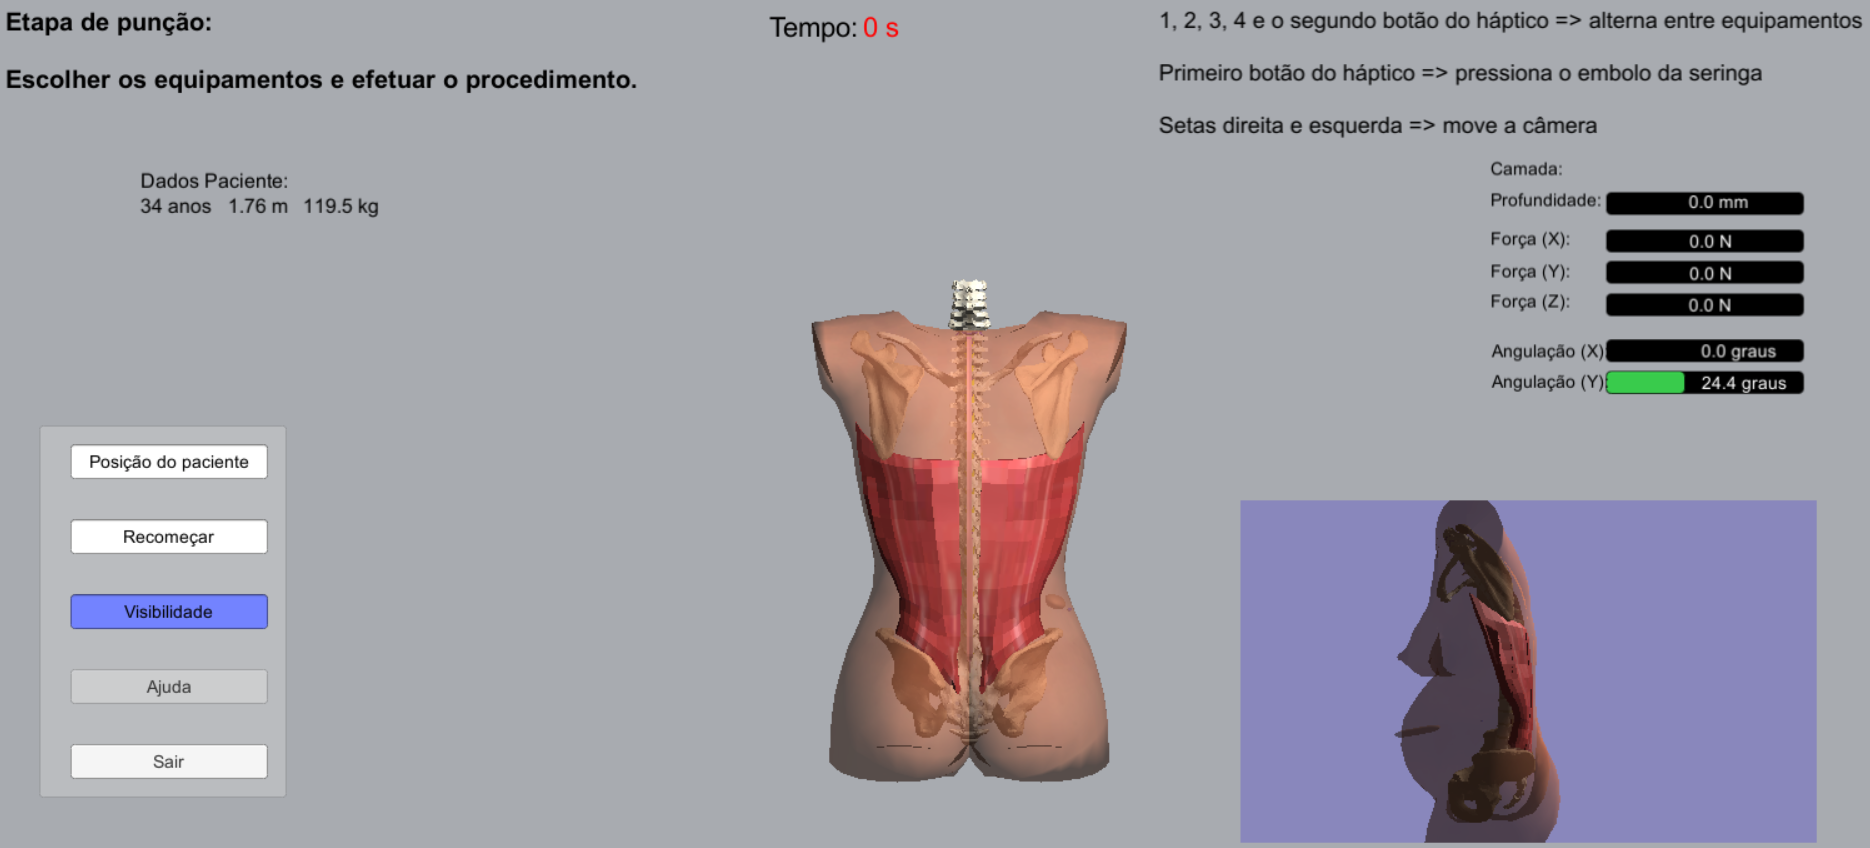
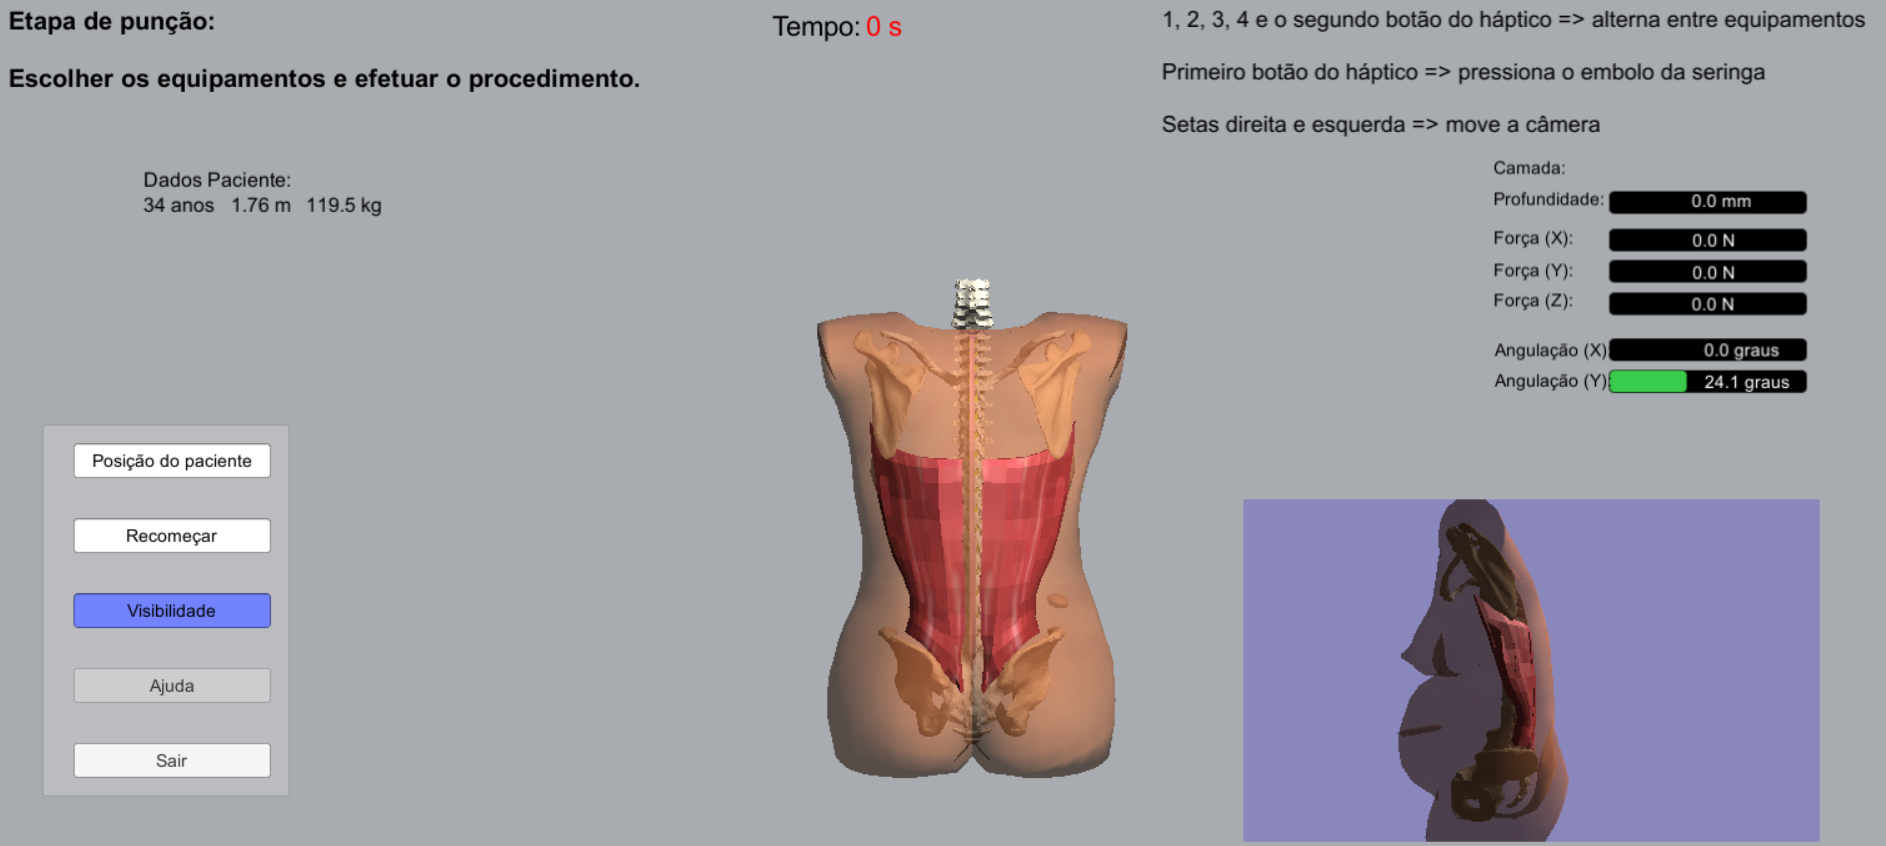
Inclusão de comparativo dos corpos das pacientes cadastradas no sistema

diff --git a/capitulos/cap4.tex b/capitulos/cap4.tex
@@ -1,7 +1,7 @@
 \chapter{Proposta} \label{cap:cap4}
 
 A proposta de uso do dispositivo háptico para treinamento de anestesia raquidiana apresentada nesta tese envolve a criação de um simulador que permite o treinamento de aprendizes na técnica de anestesia raquidiana utilizando um ambiente virtual de treinamento.
-Este ambiente virtual foi desenvolvido utilizando o motor de jogo Unity3D \cite{UnityTechnologies2020} com uso de \textit{plugin} para o dispositivo háptico \textit{Geomagic Touch}®, os \textit{scripts} foram desenvolvidos em C\#. O código foi desenvolvido como uma evolução do simulador epidural desenvolvido por \textcite{Brazil2017} levando em consideração que diversas funcionalidades existentes foram estendidas e modificadas. O foco passou de anestesia epidural para anestesia raquidiana. Um novo modelo 3D foi construído para representar fielmente as camadas do corpo humano, para isto as formas e volumes das camadas foram baseadas num corpo 3D interativo cientificamente preciso \cite{BioDigitalInc2019}. Adicionalmente a isto as principais camadas (tecidos do corpo) foram programadas com um margem de crescimento individual onde o crescimento da camada mais interna "empurra" as camadas mais externas pra fora. Isto foi feito para possibilitar uma maior variabilidade de cenários e para que estes sejam visualmente coerentes quando a transparência das camadas for aplicada. Além da possibilidade de se crescer individualmente cada camada, também é possível que todas as camadas cresçam de forma homogênea através da aplicação de matrizes de transformação. 
+Este ambiente virtual foi desenvolvido utilizando o motor de jogo Unity3D \cite{UnityTechnologies2020} com uso de \textit{plugin} para o dispositivo háptico \textit{Geomagic Touch}®, os \textit{scripts} foram desenvolvidos em C\#. O código foi desenvolvido como uma evolução do simulador epidural desenvolvido por \textcite{Brazil2017} levando em consideração que diversas funcionalidades existentes foram estendidas e modificadas assim como outras foram criadas. O foco passou de anestesia epidural para anestesia raquidiana. Um novo modelo 3D foi construído para representar fielmente as camadas do corpo humano, para isto, as formas e volumes das camadas foram baseadas num corpo 3D interativo cientificamente preciso \cite{BioDigitalInc2019}. Adicionalmente a isto as principais camadas (tecidos do corpo) foram programadas com um margem de crescimento individual onde o crescimento da camada mais interna "empurra" as camadas mais externas pra fora. Isto foi feito para possibilitar uma maior variabilidade de cenários e para que estes sejam visualmente coerentes quando a transparência das camadas for aplicada. Além da possibilidade de se crescer individualmente cada camada, também é possível que todas as camadas cresçam de forma homogênea através da aplicação de matrizes de transformação. 
 
 \section {Desenvolvimento do ambiente de treinamento} 
 
@@ -19,16 +19,16 @@ O modelo 3D para o tronco do corpo feminino (área onde é feita a punção) foi
     \label{fig:modelo3Dcorpo}
 \end{figure}
 
-Como comentado anteriormente foram criados controles para crescimento das principais camadas do corpo. Primeiro é necessário iniciar um projeto na \textit{Unity} e importar o modelo 3D. Com isto estes controles ficam acessíveis via código nas diversas linguagens suportadas pela \textit{Unity} assim como via interface da \textit{Unity}. Para a nossa solução onde precisávamos fazer modificações em tempo de execução optamos pelo acesso através do código em C# para fazer as modificações de tamanho das camadas (quando necessário). 
+Como comentado anteriormente foram criados controles para crescimento das principais camadas do corpo. Para seu uso, primeiro é necessário iniciar um projeto na \textit{Unity} e importar o modelo 3D. Com isto estes controles ficam acessíveis via código nas diversas linguagens suportadas pela \textit{Unity} assim como via interface da \textit{Unity}. Para a nossa solução onde precisávamos fazer modificações em tempo de execução optamos pelo acesso através do código em C\# para fazer as modificações de tamanho das camadas (quando necessário). 
 
 Para que seja possível fazer a interação com o dispositivo háptico \textit{Geomagic Touch®} o driver \textit{Open Haptics Touch Device} precisa ser instalado na máquina onde o dispositivo será usado, este driver pode ser encontrado no endereço eletrônico da empresa responsável pela produção e comercialização deste dispositivo háptico \cite{3DSystemsTouch2018}. Para que este dispositivo possa ser utilizado na \textit{Unity} optamos pela instalação do \textit{Haptic Plug-In For Unity3D} \cite{Poyade2014}. Este \textit{plugin} contém exemplos que exploram as funcionalidades e dos dispositivos hápticos suportados. As características específicas que foram utilizadas nos experimentos são comentadas no capítulo~\ref{cap:cap5}. No ambiente de treinamento utilizamos configurações similares as dos experimentos ajustadas de acordo com cada corpo de paciente sendo simulado. 
 
-Foi incluída uma visão lateral da cena (Figura~\ref{fig:posicaoSentadaComTransparencia}) a partir do \textit{feedback} de um anestesista sobre pontos de melhoria da ferramenta de treinamento para possibilitar um outro ponto de vista do procedimento sendo efetuado. Esta característica ajuda não só o indivíduo em treinamento mas também pessoas que possam assistir o treinamento ao vivo ou ainda gravações deste que pode ser disponibilizado futuramente. Nesta mesma imagem fizemos também a demonstração da visibilidade das camadas interiores do corpo (que é exibida ao pressionar usando o mouse o botão "visibilidade" no menu do lado esquerdo). Esta funcionalidade pode ser utilizada por iniciantes nos seus primeiros treinamentos.  
+Foi incluída uma visão lateral da cena (Figura~\ref{fig:posicaoSentadaComTransparencia}) a partir do \textit{feedback} de um anestesista sobre pontos de melhoria da ferramenta de treinamento para possibilitar um outro ponto de vista do procedimento sendo efetuado. Esta característica ajuda não só o indivíduo em treinamento mas também pessoas que possam assistir o treinamento ao vivo ou ainda gravações deste que pode ser disponibilizado futuramente. Nesta mesma imagem fizemos também a demonstração da visibilidade das camadas interiores do corpo (que é exibida ao pressionar usando o mouse o botão "visibilidade" no menu do lado esquerdo). Esta funcionalidade pode ser utilizada por iniciantes nos seus primeiros treinamentos assim como por educadores para turmas que estejam assistindo demonstrações feita por estes.  
 
 \begin{figure}[ht!]
     \centering
     \includegraphics[width=0.9\linewidth]{capitulos/figuras/sistema posicao sentada com transparencia.png} 
-    \caption{Visão geral do sistema com tronco de paciente centralizada na tela na posição sentada. Do lado inferior direito a visão lateral desta mesma parte do corpo.}
+    \caption{Visão geral do sistema com tronco de paciente centralizada na tela na posição sentada. Do lado inferior direito a visão lateral desta mesma parte do corpo. Neste caso foi aplicada a transparência para visualização das camadas internas}
     \label{fig:posicaoSentadaComTransparencia}
 \end{figure}
 
@@ -43,6 +43,37 @@ Uma outra opção de execução do procedimento incluída foi a possibilidade de
 
 \subsection {Simulação de pacientes virtuais}
 
-======
- MOSTRAR VARIAÇÕES DO CORPO PELAS TRANSFORMAÇÕES EXISTENTES
-======
+Nesta seção iremos ilustrar parte da possibilidade de variabilidade de pacientes através dos parâmetros existentes no modelo 3D desenvolvido que pode ser alterado tanto via interface da \textit{Unity} como via código C\#. 
+
+Como primeiro exemplo apresentamos a variabilidade de crescimento do tronco simulando uma paciente com um \acrshort{IMC} mais elevado em comparação com uma paciente com um corpo de \acrshort{IMC} mais baixo. As duas imagens apresentadas na Figura~\ref{fig:extremosCorpoIMC} ilustram os extremos que podem ser obtidos com a variação de parâmetros implementada no modelo 3D criado. Para variações maiores podemos usar transformações matriciais através de simples comandos na \textit{Unity} usando a transformação de escala aplicados. Optamos pela implementação de um range de variação para evitar a deformação por aplicações de matrizes de transformação que são aplicadas no objeto 3D como um todo. É sabido que existem regiões que são as mais afetadas pelo ganho de gordura corporal e, portanto devem ser mais expandidas do que outras visando um ganho visual mais próximo do real. Nestas figuras apresentamos o \texti{wireframe} de forma a ilustrar os polígonos que fazem parte do modelo 3D do corpo. Para fazer essas alterações via interface da \textit{Unity} primeiro é necessário importar o modelo 3D no projeto. Ele então precisa ser adicionado a hierarquia e ser corretamente posicionado na cena. Ao selecionar o elemento do modelo 3D (que neste caso se chama \textit{Body}) é preciso alterar o componente \textit{Skinned Mesh Renderer} associado pelo \textit{Unity} no momento da importação para cada camada (parte do modelo 3D) que possui parametrização (os componentes ficam na janela \textit{Inspector}). Este componente possui uma seção chamada \textit{BlendShapes} que exibe os parâmetros de deformação da forma. O parâmetro do objeto \textit{Body} se chama \textit{Body\_Final\_Channel} e aceita valores de zero a cem, sendo 0 (zero) o valor que indica a ausência de deformação (Figura~\ref{fig:extremosCorpoIMC} (a)) e 100 (cem) o valor de maior deformação (Figura~\ref{fig:extremosCorpoIMC} (b)). Para alteração via código na mudança de pacientes utilizamos o script em C\#. O acesso para modificação deste percentual de deformação é feito a partir da variável que representa o corpo, para este caso a camada chamada de \textit{Body} fica posicionada num vetor de camadas na primeira posição deste vetor. A Listagem~\ref{lst:codigo_alteracao_forma_paciente} apresenta um exemplo da parte do código que faz a deformação do corpo do paciente a partir do parâmetro passado. Este parâmetro é calculado como valor percentual a partir dos valores de \acrshort{IMC} mínimo e máximo implementados no sistema e do \acrshort{IMC} do paciente que é calculado a partir do seu peso e altura. Os valores mínimos e máximos de IMC são fixos pra cada execução do sistema sendo calculados a partir da base de pacientes disponível. Esta base pode ser alterada livremente para aumentar ou diminuir a variabilidade de cenários de teste conforme necessidade.
+
+\begin{lstlisting}[label=lst:codigo_alteracao_forma_paciente, caption={Exemplo de alteração do corpo do paciente via script em C\#.}, language=sharpc]
+float imc = objPaciente.peso / (objPaciente.altura * objPaciente.altura);
+
+float percentDeformacaoCorpo = 100 * (imc - minIMC) / (maxIMC - minIMC);
+        
+SkinnedMeshRenderer smRenderer;
+smRenderer = camadas[0].GetComponent<SkinnedMeshRenderer>();
+smRenderer.SetBlendShapeWeight(0, percentDeformacaoCorpo);
+\end{lstlisting}
+
+\begin{figure}[ht!]
+    \centering
+        \begin{tabular}{cc}
+        \includegraphics[width=0.4\linewidth]{capitulos/figuras/Corpo-menor-IMC-Wireframe.png} & 
+        \includegraphics[width=0.38\linewidth]{capitulos/figuras/Corpo-maior-IMC-Wireframe.png} 
+        \\
+        (a) & (b)
+        \end{tabular}
+    \caption{Troncos com extremos de \acrshort{IMC} via parâmetro na posição lateral com \textit{wireframe}: (a) Menor \acrshort{IMC} (b) Maior \acrshort{IMC}.}
+    \label{fig:extremosCorpoIMC}
+\end{figure}
+
+Na Figura~\ref{fig:pacientesMaiorParaMenorIMCVisaoTroncoELateral} exibimos todas as pacientes atualmente cadastradas no sistema ordenadas de forma decrescente em relação ao \acrshort{IMC}. Ao lado de cada tronco com os dados de idade, altura e peso inserimos também a visão lateral para melhor visualização das diferenças (que são distribuídas nos eixos X e Z). Fazendo um comparativo desde a paciente com maior \acrshort{IMC} (no alto a esquerda) até a de menor (abaixo a direita) é possível observar parte das variações implementadas no modelo 3D em relação a camada do corpo. Observando a área da cintura, barriga e dorso pode-se perceber o afinamento destas áreas conforme o \acrshort{IMC} é reduzido. É importante ressaltarmos aqui que a possibilidade de ajustar altura (crescimento no eixo Y) não foi trabalhada no modelo 3D por motivos de simplificação mas esta pode ser alterada a partir de transformações de matrizes via \textit{Unity}. O eixo mais importante para o contexto da simulação de raquianestesia é o da profundidade das camadas a serem transpassadas (eixo Z), por que é neste eixo que a agulha é inserida.
+
+\begin{figure}[ht!]
+    \centering
+    \includegraphics[width=0.9\linewidth]{capitulos/figuras/pacientes cadastradas maior para menor imc visao tronco sentado e lateral.png} 
+    \caption{Ilustração dos troncos das pacientes cadastradas renderizados no sistema juntamente com a visão lateral do maior para o menor IMC.}
+    \label{fig:pacientesMaiorParaMenorIMCVisaoTroncoELateral}
+\end{figure}

diff --git a/tese.tex b/tese.tex
@@ -57,6 +57,31 @@
 %Tabela Colorida
 \usepackage{bigdelim,booktabs, colortbl, longtable, multirow, multicol,rotating }
 
+%--- listagem de código
+\usepackage{listings}
+%\lstdefinestyle{sharpc}{language=[Sharp]C, frame=lr, rulecolor=\color{blue!80!black}}
+%\lstset{style=sharpc}
+
+\usepackage{comment}
+%\begin{comment}
+\definecolor{MyLightGray}{RGB}{200, 200,200}
+
+\lstdefinelanguage{sharpc}
+{
+    columns=fullflexible,
+    keywordstyle=\color{red},
+    morekeywords={@prefix,@base,@forSome,@forAll,@keywords},
+    morecomment=[l]{\#},
+    tabsize=4, 
+    alsoletter={-?}, % allowed in names
+    morecomment=[s][\color{blue}]{<}{>},
+    basicstyle=\ttfamily\color{black}, 
+    %numberstyle=\color{black},
+    morestring=[b][\color{black}]\",    
+    backgroundcolor=\color{MyLightGray},
+}
+%\end{comment}
+
 
 
 %%===============================================================================

diff --git a/pre-textuais/acronimos.tex b/pre-textuais/acronimos.tex
@@ -4,6 +4,6 @@
 \newacronym{RV}{RV}{Realidade Virtual}
 \newacronym{DoF}{DoF}{degrees of freedom}
 \newacronym{ACR}{ACR}{Acronimos}
-\newacronym{LOR}{LOR}{Lost of Resistence}
+\newacronym{LoR}{LoR}{Lost of Resistence}
 \newacronym{RM}{RM}{Ressonância magnética}
 \newacronym{TC}{TC}{Tomografia computadorizada}
